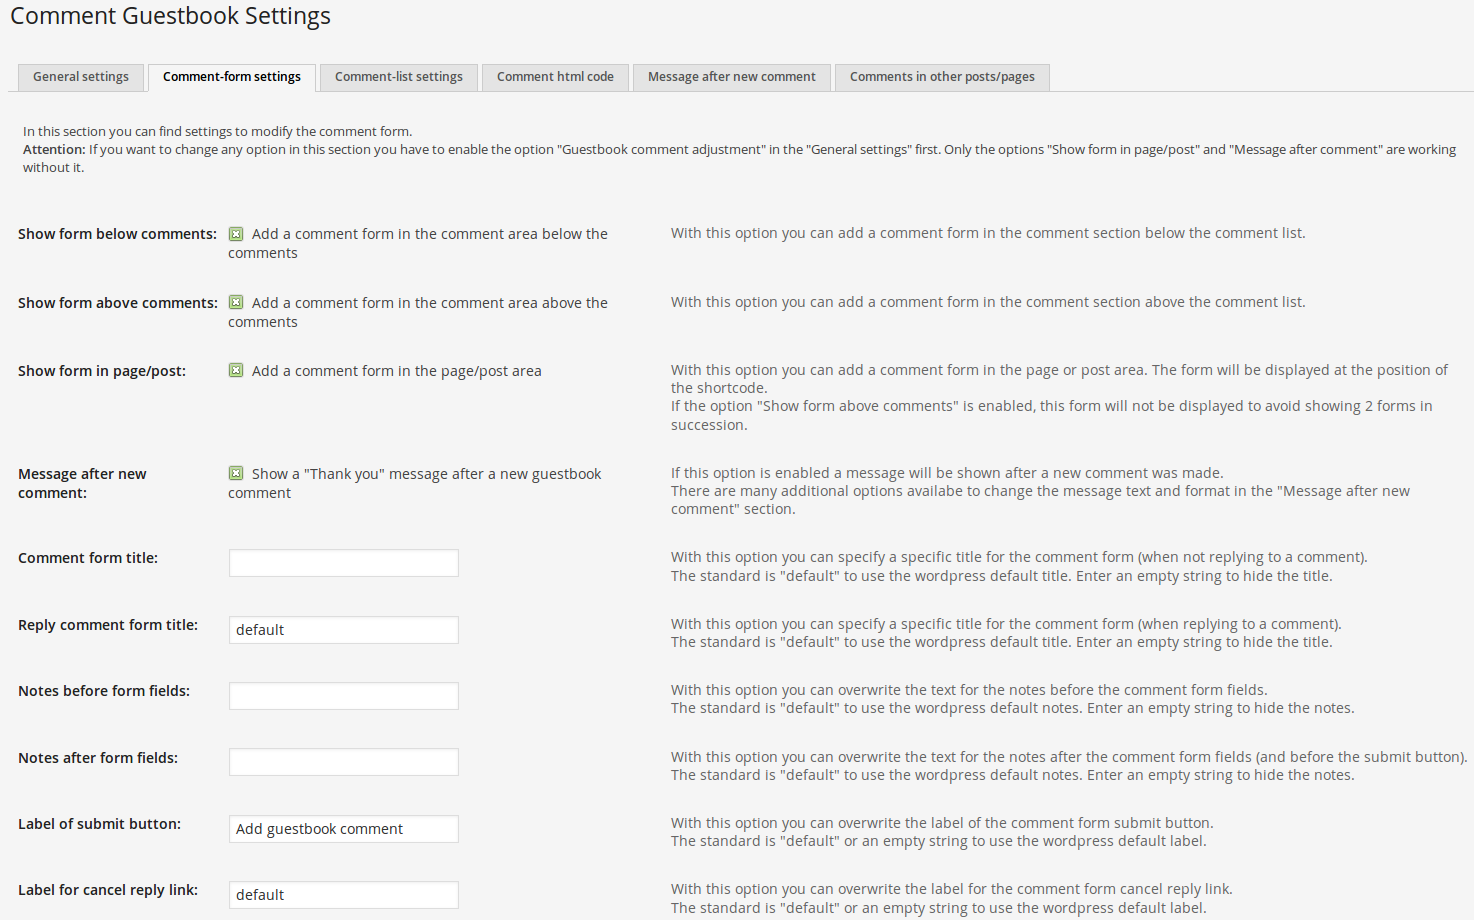
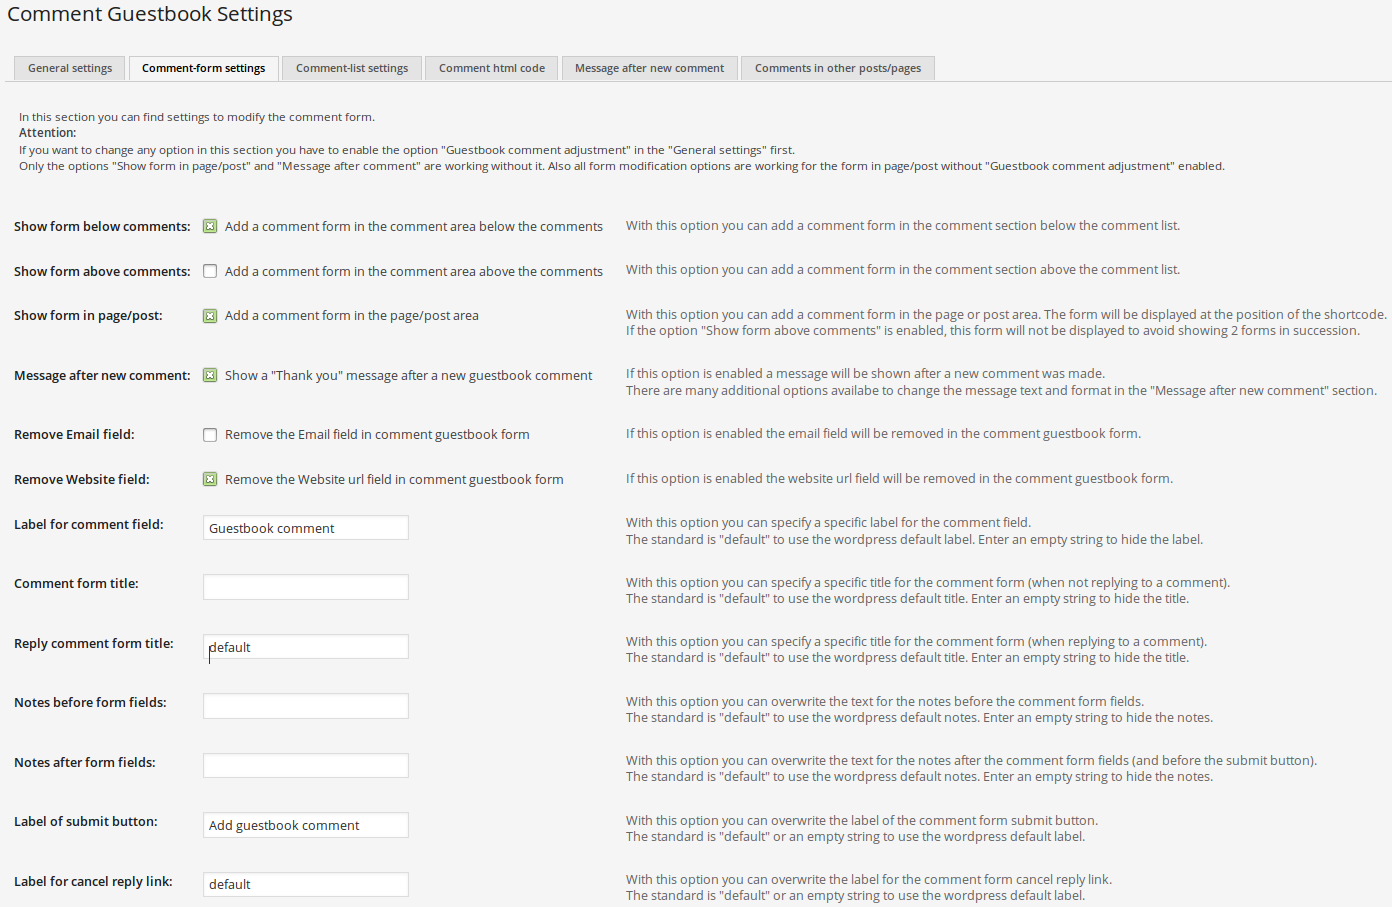
version 0.6.2
git-svn-id: https://plugins.svn.wordpress.org/comment-guestbook/trunk@872129 b8457f37-d9ea-0310-8a92-e5e31aec5664

diff --git a/includes/options.php b/includes/options.php
@@ -29,8 +29,8 @@ class CGB_Options {
 			                          'desc'    => __('Some general settings for this plugin.')),
 			'comment_form'   => array('caption' => __('Comment-form settings'),
 			                          'desc'    => __('In this section you can find settings to modify the comment form.<br />
-			                                           <strong>Attention:</strong> If you want to change any option in this section you have to enable the option "Guestbook comment adjustment" in the "General settings" first.
-			                                           Only the options "Show form in page/post" and "Message after comment" are working without it.')),
+			                                           <strong>Attention:</strong><br />If you want to change any option in this section you have to enable the option "Guestbook comment adjustment" in the "General settings" first.<br />
+			                                           Only the options "Show form in page/post" and "Message after comment" are working without it. Also all form modification options are working in the page/post form without "Guestbook comment adjustment" enabled.')),
 			'comment_list'   => array('caption' => __('Comment-list settings'),
 			                          'desc'    => __('In this section you can find settings to modify the comments list.<br />
 			                                           <strong>Attention:</strong> If you want to change any option in this section you have to enable the option "Guestbook comment adjustment" in the "General settings" first.')),
@@ -98,6 +98,27 @@ class CGB_Options {
 			                                      'caption' => __('Show a "Thank you" message after a new guestbook comment'),
 			                                      'desc'    => __('If this option is enabled a message will be shown after a new comment was made.<br />
 			                                                       There are many additional options availabe to change the message text and format in the "Message after new comment" section.')),
+
+			'cgb_form_remove_mail'       => array('section' => 'comment_form',
+			                                      'type'    => 'checkbox',
+			                                      'std_val' => '',
+			                                      'label'   => __('Remove Email field'),
+			                                      'caption' => __('Remove the Email field in comment guestbook form'),
+			                                      'desc'    => __('If this option is enabled the email field will be removed in the comment guestbook form.')),
+
+			'cgb_form_remove_website'    => array('section' => 'comment_form',
+			                                      'type'    => 'checkbox',
+			                                      'std_val' => '',
+			                                      'label'   => __('Remove Website field'),
+			                                      'caption' => __('Remove the Website url field in comment guestbook form'),
+			                                      'desc'    => __('If this option is enabled the website url field will be removed in the comment guestbook form.')),
+
+			'cgb_form_comment_label'     => array('section' => 'comment_form',
+			                                      'type'    => 'text',
+			                                      'std_val' => 'default',
+			                                      'label'   => __('Label for comment field'),
+			                                      'desc'    => __('With this option you can specify a specific label for the comment field.<br />
+			                                                       The standard is "default" to use the wordpress default label. Enter an empty string to hide the label.')),
 
 			'cgb_form_title_reply'       => array('section' => 'comment_form',
 			                                      'type'    => 'text',

diff --git a/includes/comments-functions.php b/includes/comments-functions.php
@@ -219,6 +219,18 @@ class CGB_Comments_Functions {
 
 	public function get_guestbook_comment_form_args() {
 		$args = array();
+		// remove mail field
+		if('' != $this->options->get('cgb_form_remove_mail')) {
+			add_filter('comment_form_field_email', array(&$this, 'form_field_remove_filter'), 20);
+		}
+		// remove website url field
+		if('' != $this->options->get('cgb_form_remove_website')) {
+			add_filter('comment_form_field_url', array(&$this, 'form_field_remove_filter'), 20);
+		}
+		// change comment field label
+		if('default' != $this->options->get('cgb_form_comment_label')) {
+			add_filter('comment_form_field_comment', array(&$this, 'comment_field_label_filter'), 20);
+		}
 		// title_reply
 		if('default' != $this->options->get('cgb_form_title_reply')) {
 			$args['title_reply'] = $this->options->get('cgb_form_title_reply');
@@ -246,6 +258,14 @@ class CGB_Comments_Functions {
 			$args['cancel_reply_link'] = $option;
 		}
 		return $args;
+	}
+
+	public function form_field_remove_filter() {
+		return '';
+	}
+
+	public function comment_field_label_filter($comment_html) {
+		return preg_replace('/(<label.*>)(.*)(<\/label>)/i', '${1}'.$this->options->get('cgb_form_comment_label').'${3}', $comment_html, 1);
 	}
 }
 ?>

diff --git a/includes/sc_comment-guestbook.php b/includes/sc_comment-guestbook.php
@@ -10,6 +10,7 @@ class SC_Comment_Guestbook {
 	private static $instance;
 	private $options;
 
+
 	public static function &get_instance() {
 		// Create class instance if required
 		if(!isset(self::$instance)) {
@@ -39,10 +40,11 @@ class SC_Comment_Guestbook {
 			// Show comment form
 			$out = '';
 			if(comments_open()) {
-				// to only show one form above the comment list the form_in_page is not displayed of form_above_comments is enabled
+				// Only show one form above the comment list. The form_in_page will not be displayed if form_above_comments and adjust_output is enabled
 				if('' !== $this->options->get('cgb_form_in_page') && ('' === $this->options->get('cgb_form_above_comments') || '' === $this->options->get('cgb_adjust_output'))) {
+					require_once(CGB_PATH.'includes/comments-functions.php');
 					ob_start();
-						comment_form();
+						comment_form(CGB_Comments_Functions::get_instance()->get_guestbook_comment_form_args());
 						$out .= ob_get_contents();
 					ob_end_clean();
 				}

diff --git a/comment-guestbook.php b/comment-guestbook.php
@@ -3,7 +3,7 @@
 Plugin Name: Comment Guestbook
 Plugin URI: http://wordpress.org/extend/plugins/comment-guestbook/
 Description: Add a guestbook page which uses the wordpress integrated comments.
-Version: 0.6.1
+Version: 0.6.2
 Author: Michael Burtscher
 Author URI: http://wordpress.org/extend/plugins/comment-guestbook/
 License: GPLv2
